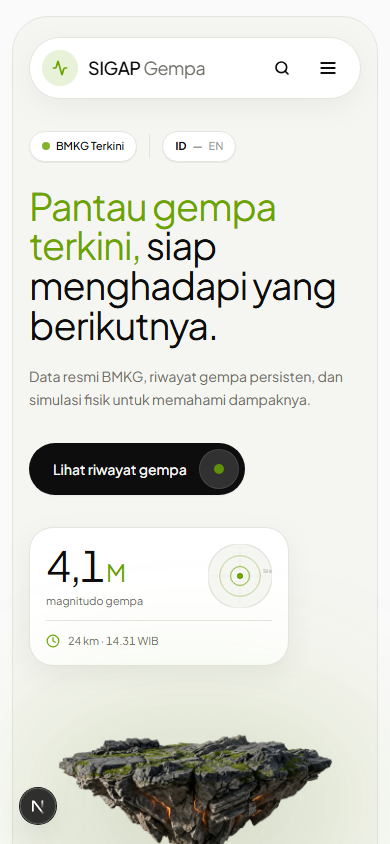
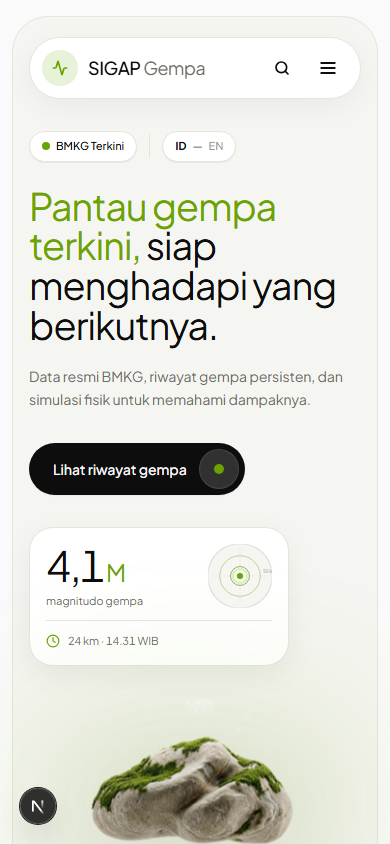
feat(design): ganti batuan tektonik dengan batu skulptural alami dan organik

Changed region(s): [[0.1538, 0.8626, 0.8615, 1.0], [0.0923, 0.154, 0.1231, 0.1848]]

diff --git a/src/app/page.tsx b/src/app/page.tsx
@@ -182,8 +182,8 @@ export default async function HomePage() {
                   {/* Subtle soft primary blur behind the stone */}
                   <div className="pointer-events-none absolute -inset-6 rounded-full bg-[var(--color-primary)]/10 blur-3xl" />
                   <img
-                    src="/images/tectonic-island-v2.png"
-                    alt="Formasi geologis lempeng tektonik seismik Indonesia"
+                    src="/images/tectonic-island-v3.png"
+                    alt="Batuan tektonik skulptural organik dengan lumut dan patahan energi seismik"
                     className="relative w-full h-auto max-h-[460px] object-contain animate-floaty filter drop-shadow-[0_30px_60px_rgba(13,13,13,0.12)] select-none pointer-events-none"
                   />
                 </div>

diff --git a/scripts/make-transparent.py b/scripts/make-transparent.py
@@ -1,0 +1,66 @@
+import sys
+from PIL import Image, ImageFilter
+import numpy as np
+from collections import deque
+
+def extract_subject(input_path, output_path, tolerance=20):
+    img = Image.open(input_path).convert("RGBA")
+    arr = np.array(img)
+    h, w, _ = arr.shape
+    
+    # Background color sample from 4 corners
+    corners = [
+        arr[0, 0, :3].astype(float),
+        arr[0, w-1, :3].astype(float),
+        arr[h-1, 0, :3].astype(float),
+        arr[h-1, w-1, :3].astype(float)
+    ]
+    bg_color = np.mean(corners, axis=0)
+    print(f"Sampled BG color: {bg_color}")
+    
+    # Euclidean distance from BG color in RGB space
+    diff = np.sqrt(np.sum((arr[:, :, :3].astype(float) - bg_color) ** 2, axis=2))
+    
+    # Flood fill from perimeter
+    visited = np.zeros((h, w), dtype=bool)
+    queue = deque()
+    
+    for x in range(w):
+        if diff[0, x] < tolerance:
+            queue.append((0, x))
+            visited[0, x] = True
+        if diff[h-1, x] < tolerance and not visited[h-1, x]:
+            queue.append((h-1, x))
+            visited[h-1, x] = True
+            
+    for y in range(h):
+        if diff[y, 0] < tolerance and not visited[y, 0]:
+            queue.append((y, 0))
+            visited[y, 0] = True
+        if diff[y, w-1] < tolerance and not visited[y, w-1]:
+            queue.append((y, w-1))
+            visited[y, w-1] = True
+            
+    while queue:
+        cy, cx = queue.popleft()
+        for dy, dx in [(-1, 0), (1, 0), (0, -1), (0, 1)]:
+            ny, nx = cy + dy, cx + dx
+            if 0 <= ny < h and 0 <= nx < w and not visited[ny, nx]:
+                if diff[ny, nx] < tolerance:
+                    visited[ny, nx] = True
+                    queue.append((ny, nx))
+                    
+    alpha_mask = np.ones((h, w), dtype=np.uint8) * 255
+    alpha_mask[visited] = 0
+    
+    alpha_img = Image.fromarray(alpha_mask, mode="L")
+    alpha_img = alpha_img.filter(ImageFilter.GaussianBlur(radius=0.7))
+    
+    img.putalpha(alpha_img)
+    img.save(output_path, "PNG")
+    print(f"Successfully saved transparent PNG to {output_path}")
+
+if __name__ == "__main__":
+    src = sys.argv[1]
+    dst = sys.argv[2]
+    extract_subject(src, dst)
